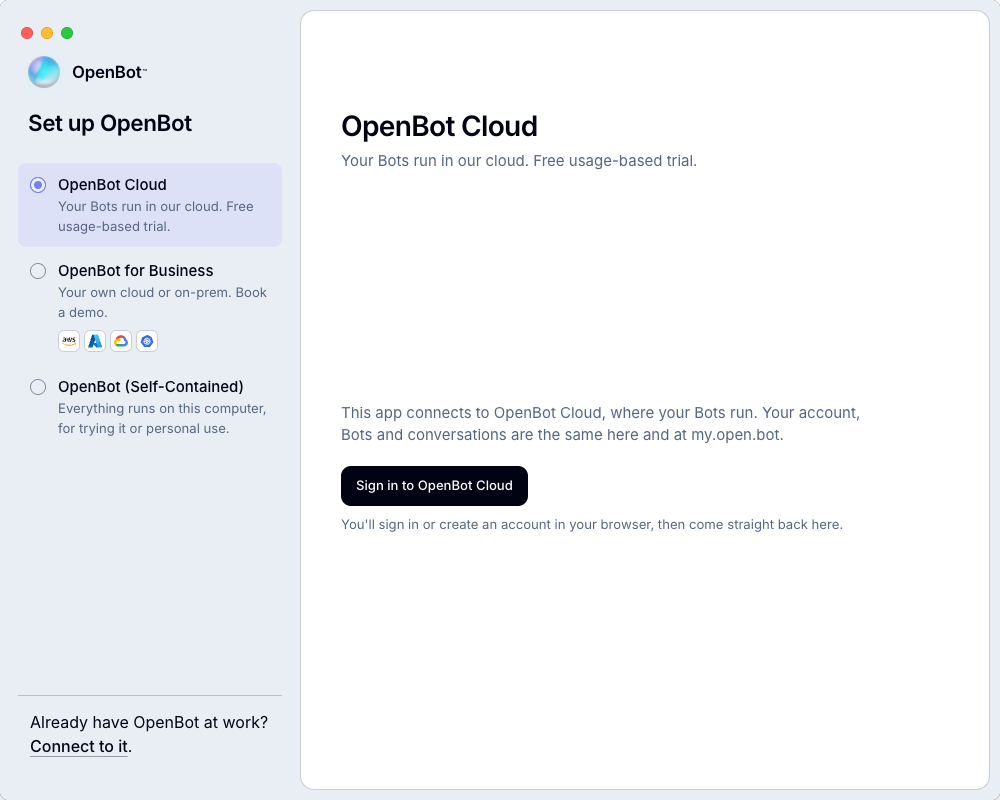
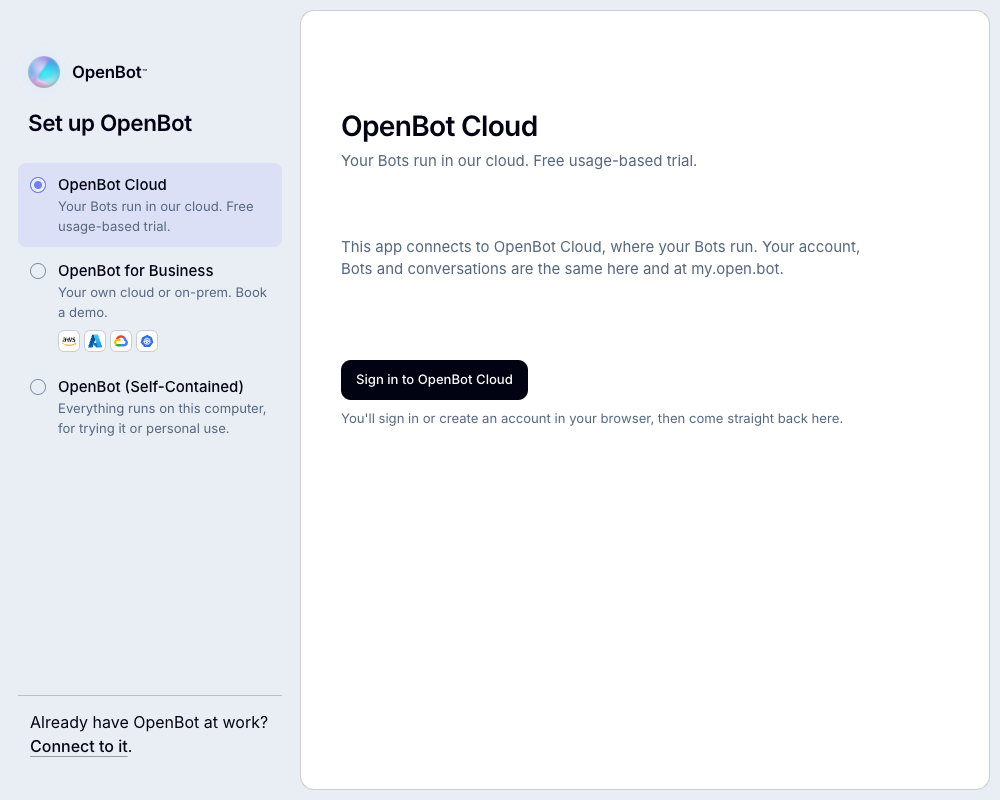
docs: refresh PR 2189 page positioning screenshots

diff --git a/README.md b/README.md
@@ -1,11 +1,9 @@
 # PR #2189 UI screenshots
 
-Rendered from product branch `dustywusty/desktop-ui-layouts` at commit `f47ccabc0cc1ad7ffbcbb3c51fe0e5361f639d2c`, captured on 2026-11-25 with Workbench.
+Latest positioning updates: `191f72ce17f6c973b5550071b21af54bd22778eb`, captured on 2026-11-25. Cloud sign-in, Connect to work, Self-Contained requirements/install, and the update operation have been re-spaced without changing their visual style or copy.
 
-The screenshots show the real app components with simulated native/API responses and preview window controls. Booking uses the live Calendly widget; choosing a day only shows availability and does not book a meeting.
+This gallery has 25 screenshots: 10 refreshed positioning captures from the standalone real-main browser fixture, and 15 earlier captures from Workbench at `f47ccabc0cc1ad7ffbcbb3c51fe0e5361f639d2c` for the other layouts. Native/API boundaries are simulated; earlier Workbench captures include preview window controls. Booking uses the live Calendly widget; availability was viewed without booking a meeting.
 
-Content viewport is 1000×800, except the compact update at 720×560. The Windows preview adds its title bar above the content viewport. Animations are held with reduced motion for stable screenshots.
+Viewport is 1000×800 unless a compact 720×560 image is named. Windows captures include an extra 32px title bar. Source and capture method are recorded per image in `manifest.json`.
 
-This branch hosts review images only. Product code and workflows live on their own branches.
-
-See `manifest.json` for scene, seek time, theme, viewport and rendered headings.
+The refreshed spacing passed six focused existing layout browser cases (100 assertions), scoped formatting/lint, and the Desktop production build. This branch hosts images and capture metadata only.
